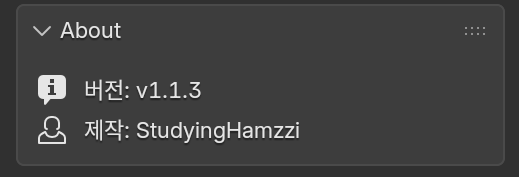
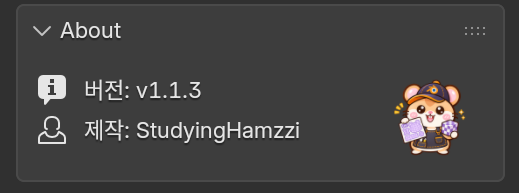
Rework the guide wording, add button pictures, and describe the UV map warning
Guide
- Rewrite the text panel by panel in plainer Korean; drop the "common rules"
  and the 3ds Max table; rename the quick table to "기능 한눈에 보기".
- Show the six align buttons as pictures in the Align Islands and UV Vertices
  tables (Markdown image syntax, so they also render inside tables).
- Regroup the Unstretch notes around Pin Boundary and explain what the tool
  does in terms of the result.
- Add a note that the add-on needs an unwrapped mesh, and the two new UV map
  warnings in the message table.
- Use a smaller full-body picture at the top and refresh the sidebar and About
  pictures for the new title row.

README
- Remove the 3ds Max sentence and smooth the intro, feature table, quick start
  and limits.

diff --git a/README.md b/README.md
@@ -6,7 +6,7 @@
 
 <p align="center">이미 펼친 UV를 정리하는 Blender 애드온</p>
 
-흩어진 UV 아일랜드를 정렬하고 타일 안에 배치하고, 이음선을 붙이고, 늘어진 UV를 풀고, 텍셀 밀도를 맞춥니다. 3ds Max Unwrap UVW에서 쓰던 Stitch, Relax, 연결 엣지 표시 같은 기능을 Blender 사이드바 버튼으로 쓸 수 있게 만들었습니다. UV를 새로 펼치는 기능은 없습니다.
+사이드바 버튼으로 흩어진 아일랜드를 정렬해 타일 안에 배치하고, 이음선을 붙이고, 늘어진 UV를 풀고, 텍셀 밀도를 맞출 수 있습니다. UV를 새로 펼치는 기능은 없습니다.
 
 - Blender 4.2 이상 (5.2에서 테스트했고, 그 아래 버전에서는 실행해 보지 않았습니다)
 - 제작: StudyingHamzzi
@@ -14,7 +14,7 @@
 
 ## 화면
 
-3D 뷰포트와 UV 에디터의 사이드바(N 키)에 **HamzziUVWs** 탭이 생깁니다. 메시가 Edit Mode일 때 보입니다.
+메시를 Edit Mode로 두면 3D 뷰포트와 UV 에디터의 사이드바(N 키)에 **HamzziUVWs** 탭이 나타납니다.
 
 <table>
   <tr>
@@ -27,14 +27,14 @@
 
 | 패널 | 할 수 있는 일 |
 |---|---|
-| Align Islands | 아일랜드를 좌·우·상·하·중앙으로 정렬 (선택 영역 또는 0–1 타일 기준) |
-| Distribute / Sort | 간격을 고르게 분배하거나, 3D 위치 순서대로 한 줄(또는 한 열)에 나란히 정렬 |
+| Align Islands | 아일랜드를 가장자리나 가운데에 맞춤 (기준: 선택 영역 또는 0–1 타일) |
+| Distribute / Sort | 간격을 고르게 분배, 3D 위치 순서대로 한 줄(또는 한 열)에 나열 |
 | Tile / Pack | UDIM 타일로 이동, 타일 안에 줄 맞춰 자동 배치 (Margin, Scale to Fit) |
-| Transform | 90°·180°·임의 각도 회전, 뒤집기, 자동 방향 맞춤, 선택 엣지를 축에 맞춤, U·V 배율 |
-| Texel Density | 밀도 측정, 목표값 적용, 평균으로 통일, 활성 면 기준 맞춤 |
-| UV Vertices | 선택한 UV 정점을 정렬하고 균등 분배 (엣지 펴기) |
-| Stitch | 선택한 UV 엣지를 이웃 아일랜드의 짝 엣지에 붙임. 모양이 달라도 이음선 끝점이 정확히 붙음 |
-| Unstretch | 선택한 UV를 3D 형태에 맞게 다시 풀어 늘어짐 해소, 스트레치 표시 토글 |
+| Transform | 회전(90°, 180°, 원하는 각도), 뒤집기, 자동 방향 맞춤, 선택 엣지를 축에 맞춤, U·V 배율 조정 |
+| Texel Density | 밀도 측정, 목표값 적용, 평균으로 통일, 활성 면의 밀도에 맞춤 |
+| UV Vertices | 선택한 UV 정점의 정렬과 균등 분배 (엣지 펴기) |
+| Stitch | 선택한 UV 엣지를 이웃 아일랜드의 같은 엣지에 붙임. 모양이 달라도 이음선 끝점이 정확히 붙음 |
+| Unstretch | 늘어난 UV를 3D 표면의 비율에 가깝게 다시 계산, 스트레치 표시 켜고 끄기 |
 | Connected Edges | 선택한 점·선·면이 다른 아일랜드의 어디로 이어지는지 파란색으로 표시 |
 
 ## 설치
@@ -57,15 +57,15 @@
 
 1. 메시를 선택하고 Tab 키로 Edit Mode에 들어갑니다.
 2. UV 에디터를 열고 N 키로 사이드바를 연 뒤 **HamzziUVWs** 탭을 누릅니다.
-3. 아무것도 선택하지 않으면 보이는 아일랜드 전체에, 선택하면 선택한 아일랜드에 적용됩니다. 모든 도구는 Ctrl+Z로 되돌릴 수 있습니다.
+3. 아일랜드 도구는 선택한 아일랜드에 적용되고, 아무것도 선택하지 않으면 보이는 아일랜드 전체에 적용됩니다. 실행한 도구는 Ctrl+Z로 되돌릴 수 있습니다.
 
-예를 들어 흩어진 아일랜드를 정리하려면 **Tile / Pack**에서 U 0, V 0을 확인하고 **Pack into Tile**을 누릅니다. 전체 도구의 사용 순서와 예시는 [사용 가이드](docs/GUIDE.md)에 있습니다.
+예를 들어 흩어진 아일랜드를 정리하려면 **Tile / Pack**에서 U 0, V 0을 확인하고 **Pack into Tile**을 누릅니다. 모든 도구의 사용법과 작업 예시는 [사용 가이드](docs/GUIDE.md)에 있습니다.
 
 ## 알려진 한계
 
-- Stitch는 선택한 엣지 단위로만 동작하며, 가까운 엣지를 자동으로 찾아 붙이지는 않습니다.
+- Stitch는 선택한 엣지에만 동작하며, 가까운 엣지를 자동으로 찾아 붙이지는 않습니다.
 - Unstretch는 브러시가 아니라 선택 영역에 한 번에 적용됩니다. 구처럼 평평하게 펼 수 없는 형태는 면적 왜곡이 남습니다.
-- Pack into Tile은 아일랜드의 경계 상자 기준으로 놓습니다. 복잡한 모양을 빈틈없이 끼워 넣으려면 Blender의 Pack Islands가 더 촘촘합니다.
+- Pack into Tile은 아일랜드의 경계 상자를 기준으로 배치하고 회전하지 않습니다. 복잡한 모양을 빈틈없이 끼워 넣으려면 Blender의 Pack Islands가 더 촘촘하게 배치합니다.
 - Connected Edges는 Edit Mode의 면이 Face Limit(기본 1만 개)을 넘으면 표시를 건너뜁니다.
 - 패널의 버튼 이름은 영어입니다.
 
@@ -78,7 +78,7 @@
 | `HamzziUVWs/__init__.py` | 등록·해제 |
 | `HamzziUVWs/blender_manifest.toml` | 확장 정보와 버전 |
 | `HamzziUVWs/info.py` | 이름, 제작자, 버전 |
-| `HamzziUVWs/icons.py`, `HamzziUVWs/images/logo.png` | 패널 맨 위 로고 (없어도 동작) |
+| `HamzziUVWs/icons.py`, `HamzziUVWs/images/` | 패널 이름 앞의 작은 로고(`logo.png`)와 About의 전신 그림(`mascot.png`). 없어도 애드온은 동작합니다 |
 | `HamzziUVWs/core.py` | UV 데이터 접근: 편집 오브젝트, 선택 판정, 아일랜드 |
 | `HamzziUVWs/properties.py` | 패널에 보이는 설정값 |
 | `HamzziUVWs/operators/` | 도구별 연산자 (`islands`, `density`, `elements`, `stitch`, `relax`) |
